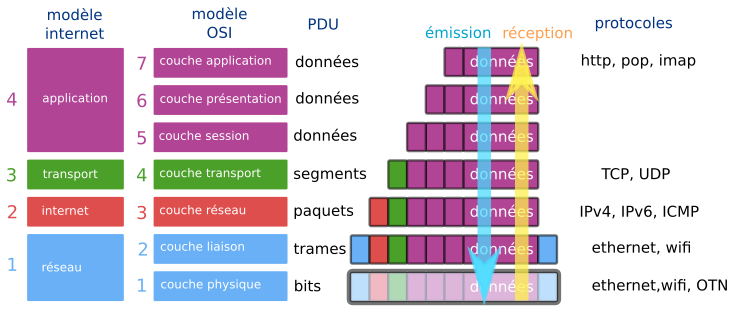
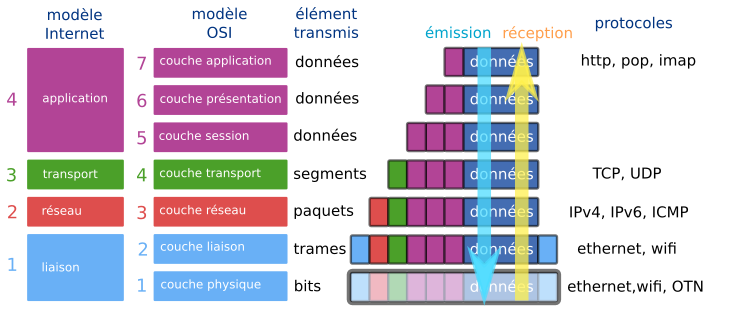
maj

diff --git a/Premiere/Theme04_Architecture_materielle/04_Protocoles_de_communication.md b/Premiere/Theme04_Architecture_materielle/04_Protocoles_de_communication.md
@@ -1,6 +1,25 @@
 # Protocoles de communication dans un réseau
 
-## I. Modèle OSI, modèle internet
+## I. Modèle OSI, modèle Internet
 
 ![](data/OSI.png)
 
+Les bits transmis d'un ordinateur à un autre contiennent, en plus des données _utiles_ (le mot «bonjour» dans un email), une multitude de données (tout aussi utiles) qui vont aider à l'acheminement de ces bits au bon endroit, puis au bon ordinateur, puis au bon logiciel. 
+Les différents protocoles qui régissent cette transmission sont regroupés dans ce qui est appelé un **modèle**. Deux modèles synthétisent ces protocoles :
+- le **modèle Internet** (ou modèle **TCP/IP**, 1974), organisé en **4** couches : liaison, réseau, transport, application.
+- le **modèle OSI** (Open Systems Interconnection, 1984), organisé en **7** couches : physique, liaison, réseau, transport, session, présentation,application.
+
+Ces deux modèles coïncident suivant le schéma ci-dessus. Dans la suite de ce cours, nous évoquerons les couches par leur numéro dans le modèle OSI.
+
+Lors de la préparation d'un message à envoyer (une requête GET, par exemple), cette requête va successivement être **encapsulée** en descendant à travers chaque couche.  
+La trame qui est émise par l'ordinateur émetteur du message sera partiellement décapsulée au cours de son parcours sur le réseau, notamment lors du passage à travers les switchs (équipements de réseau travaillant sur la couche 2 / liaison, avec les adresses MAC), ou bien à travers les routeurs (équipements de réseau travaillant sur la couche 3 /réseau, avec les adresses IP), avant d'être totalement décapsulés lors de la réception par l'ordinateur destinataire.
+
+## II. Observation des trames avec Filius
+
+### 1. Ping à travers un switch
+- Relions une machine ```192.168.0.10``` d'adresse MAC ```A6:93:FC:76:76:D1```  à une machine ```192.168.0.11``` d'adresse MAC ```AF:0B:C7:58:27:32``` à travers un switch.  
+![](data/K1.png)
+- Observons la table SAT de notre switch : elle est vide, car aucune machine n'a encore cherché à communiquer.  
+![](data/K2.png) 
+- Lançons un ping depuis ```192.168.0.10``` vers ```192.168.0.11``` et observons les données échangées :  
+![](data/K3.png) 
